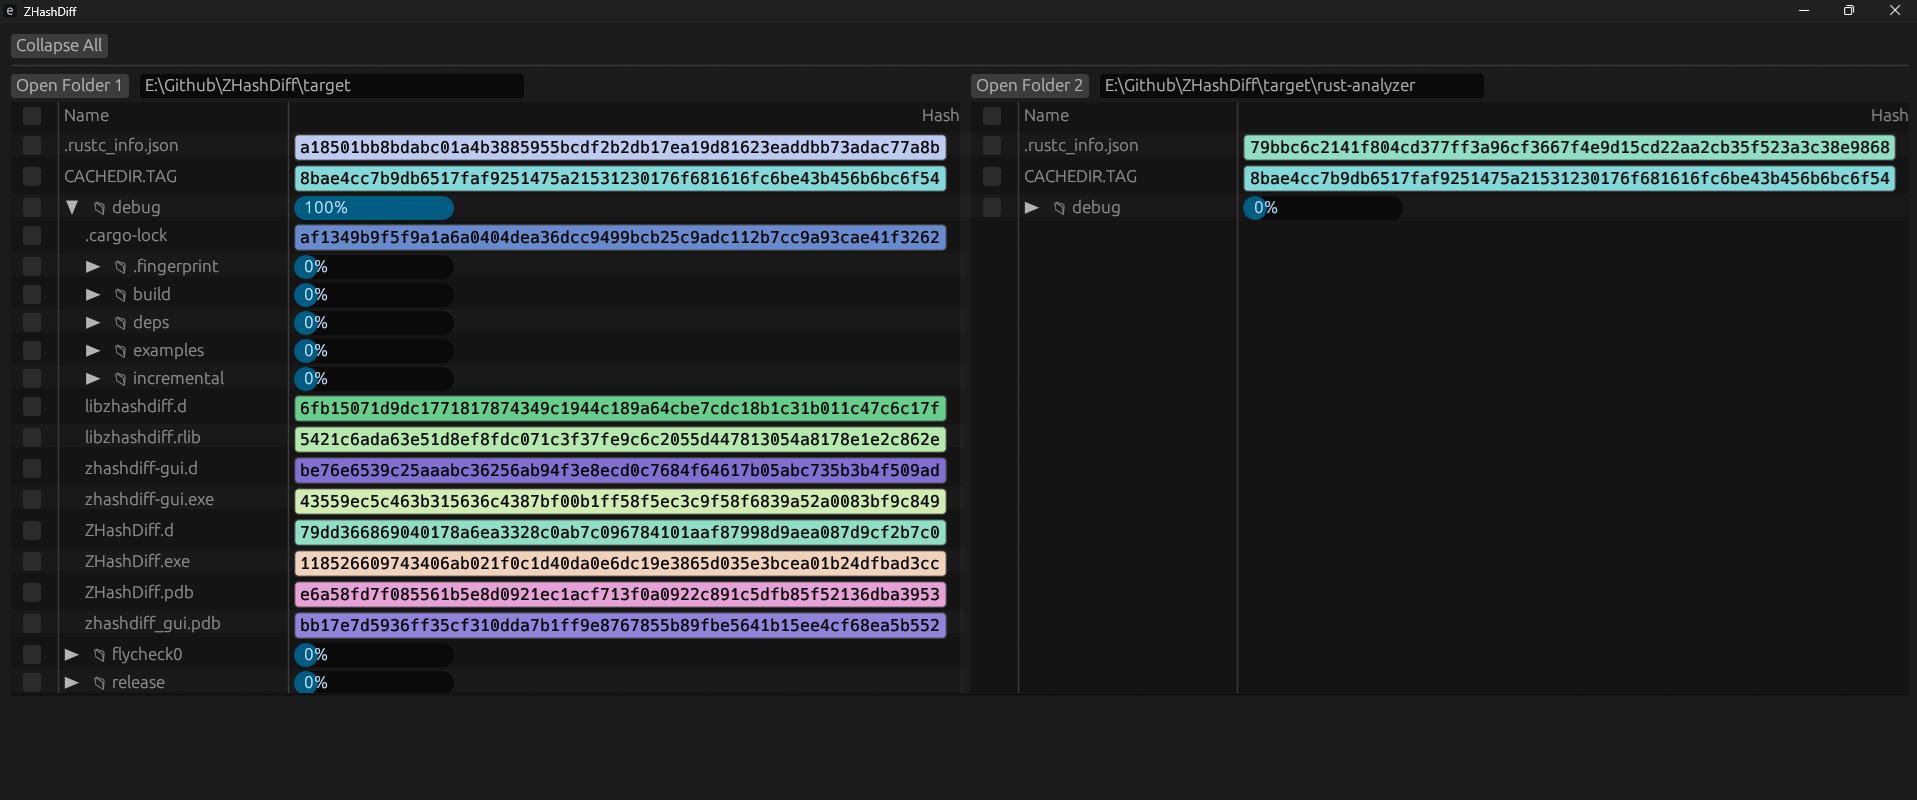
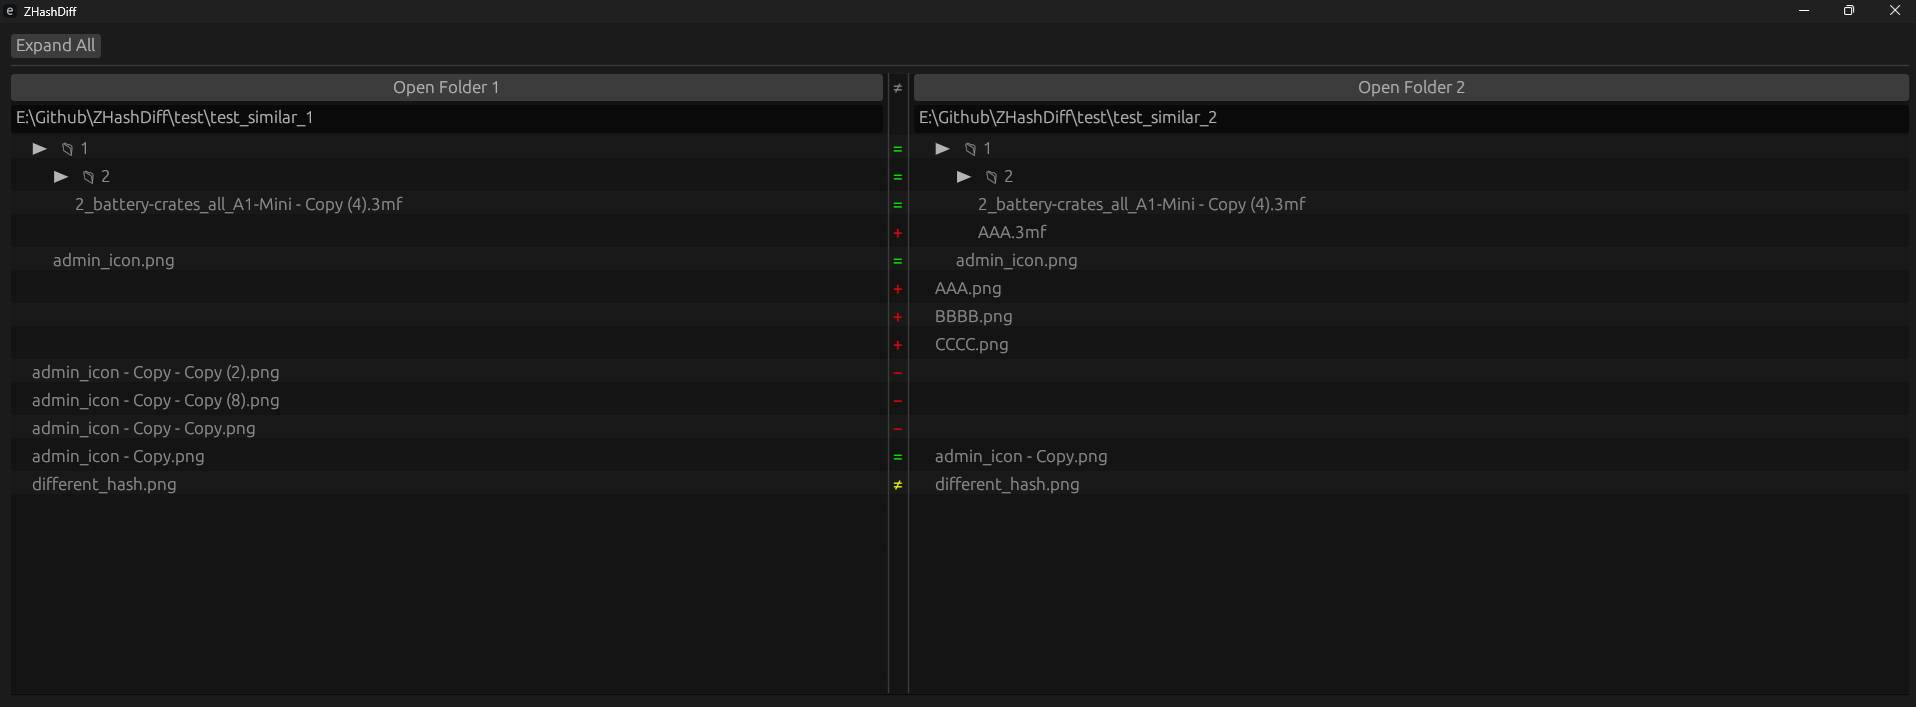
Functional code for path diff, updated showcase2.png

Changed region(s): [[0.0, 0.0, 1.0, 0.8713]]

diff --git a/src/gui/ui_egui/fs_tree.rs b/src/gui/ui_egui/fs_tree.rs
@@ -1,10 +1,13 @@
-use std::{collections::HashMap, path::PathBuf};
+use std::{
+    collections::{BTreeMap, HashMap},
+    path::{Path, PathBuf},
+};
 
 use eframe::egui::{self, RichText};
 use egui_extras::{Column, TableBuilder};
 use zhashdiff::{
     fs::{FileSystem, FsEntry},
-    hash::HashService,
+    hash::{HashService, hash_file},
 };
 
 use crate::ui_egui::common::{CheckboxSelectState, hash_to_color, ui_custom_checkbox};
@@ -116,7 +119,7 @@ pub fn draw_ui_two_folder_tree_with_diff(
     open_dir_window_2: &mut bool,
 ) -> egui::response::Response {
     let mut visible_rows = Vec::new();
-    build_expanded_rows_two_folder_diff(expanded, file_system_1, root_1, 0, &mut visible_rows);
+    build_two_folder_diff_rows(expanded, file_system_1, file_system_2, &mut visible_rows);
     let row_count = visible_rows.len();
 
     let available_height = ui.available_height();
@@ -222,9 +225,9 @@ pub enum DiffState {
 pub fn ui_custom_diff_state(ui: &mut egui::Ui, state: &DiffState) -> egui::response::Response {
     match state {
         DiffState::Same => ui.label(RichText::new("=").color(egui::Color32::GREEN)),
-        DiffState::Different => ui.label(RichText::new("≠").color(egui::Color32::RED)),
-        DiffState::OnlyInFirst => ui.label(RichText::new("←").color(egui::Color32::YELLOW)),
-        DiffState::OnlyInSecond => ui.label(RichText::new("→").color(egui::Color32::YELLOW)),
+        DiffState::Different => ui.label(RichText::new("≠").color(egui::Color32::YELLOW)),
+        DiffState::OnlyInFirst => ui.label(RichText::new("−").color(egui::Color32::RED)),
+        DiffState::OnlyInSecond => ui.label(RichText::new("+").color(egui::Color32::RED)),
     }
 }
 
@@ -262,30 +265,80 @@ fn build_expanded_rows(
     }
 }
 
-fn build_expanded_rows_two_folder_diff(
+fn build_two_folder_diff_rows(
     expanded: &mut HashMap<PathBuf, bool>,
-    file_system: &mut FileSystem,
-    current_path: &PathBuf,
-    depth: usize,
+    file_system_1: &mut FileSystem,
+    file_system_2: &mut FileSystem,
     out: &mut Vec<VisibleRowTwoFolderDiff>,
 ) {
-    let fs_path = file_system.get(current_path);
+    out.clear();
 
-    for entry in &fs_path.entries {
-        let (path, is_dir) = match entry {
-            FsEntry::Dir { path } => (path, true),
-            FsEntry::File { path } => (path, false),
+    let root1 = file_system_1.root.clone();
+    let root2 = file_system_2.root.clone();
+
+    let fs_path_1 = file_system_1.get(&root1);
+    let fs_path_2 = file_system_2.get(&root2);
+
+    let fs_path_1_flat = FileSystem::read_path_recursive_flatten(fs_path_1.root.path_buf());
+    let fs_path_2_flat = FileSystem::read_path_recursive_flatten(fs_path_2.root.path_buf());
+
+    // Use BTreeMap for stable ordering
+    let mut entries_map: BTreeMap<PathBuf, (Option<(&FsEntry, usize)>, Option<(&FsEntry, usize)>)> =
+        BTreeMap::new();
+
+    // LEFT
+    for (entry, depth) in &fs_path_1_flat.entries {
+        let rel = entry.path().strip_prefix(&root1).unwrap().to_path_buf();
+
+        entries_map.insert(rel, (Some((entry, *depth)), None));
+    }
+
+    // RIGHT
+    for (entry, depth) in &fs_path_2_flat.entries {
+        let rel = entry.path().strip_prefix(&root2).unwrap().to_path_buf();
+
+        entries_map
+            .entry(rel)
+            .and_modify(|e| e.1 = Some((entry, *depth)))
+            .or_insert((None, Some((entry, *depth))));
+    }
+
+    // BUILD ROWS
+    for (rel_path, (left, right)) in entries_map {
+        let depth = left
+            .map(|(_, d)| d)
+            .or_else(|| right.map(|(_, d)| d))
+            .unwrap_or(0);
+
+        let is_dir = left
+            .map(|(e, _)| matches!(e, FsEntry::Dir { .. }))
+            .or_else(|| right.map(|(e, _)| matches!(e, FsEntry::Dir { .. })))
+            .unwrap_or(false);
+
+        let diff_state = match (left, right) {
+            (Some((l, l_depth)), Some((r, r_depth))) => {
+                if matches!(l, FsEntry::Dir { .. }) {
+                    // TODO: Also check if contents are same
+                    DiffState::Same
+                } else if hash_file(&l.path().to_string_lossy()).unwrap()
+                    == hash_file(&r.path().to_string_lossy()).unwrap()
+                {
+                    DiffState::Same
+                } else {
+                    DiffState::Different
+                }
+            }
+            (Some(_), None) => DiffState::OnlyInFirst,
+            (None, Some(_)) => DiffState::OnlyInSecond,
+            (None, None) => continue,
         };
 
         out.push(VisibleRowTwoFolderDiff {
-            path: path.clone(),
+            path: rel_path,
             is_dir,
             depth,
-            diff_state: DiffState::Same,
+            diff_state,
         });
-        if is_dir && expanded.get(&path.clone()).copied().unwrap_or(false) {
-            build_expanded_rows_two_folder_diff(expanded, file_system, &path, depth + 1, out);
-        }
     }
 }
 
@@ -302,26 +355,33 @@ fn render_row_folder_tree_diff_column(
     row.col(|ui| {
         ui.horizontal(|ui| {
             ui.add_space((entry.depth as f32) * 16.0);
-            if is_dir {
-                let is_open = expanded.get(path).copied().unwrap_or(false);
-                let openness = if is_open { 1.0 } else { 0.0 };
-                let (_rect, response) =
-                    ui.allocate_exact_size(egui::vec2(12.0, row_height), egui::Sense::click());
-                egui::collapsing_header::paint_default_icon(ui, openness, &response);
+            match &entry.diff_state {
+                DiffState::Different | DiffState::Same | DiffState::OnlyInFirst => {
+                    if is_dir {
+                        let is_open = expanded.get(path).copied().unwrap_or(false);
+                        let openness = if is_open { 1.0 } else { 0.0 };
+                        let (_rect, response) = ui.allocate_exact_size(
+                            egui::vec2(12.0, row_height),
+                            egui::Sense::click(),
+                        );
+                        egui::collapsing_header::paint_default_icon(ui, openness, &response);
 
-                if response.clicked() {
-                    expanded.insert(path.clone(), !is_open);
-                }
+                        if response.clicked() {
+                            expanded.insert(path.clone(), !is_open);
+                        }
 
-                let label = format!(
-                    "📁 {}",
-                    path.file_name().unwrap_or_default().to_string_lossy()
-                );
-                if ui.label(label).interact(egui::Sense::click()).clicked() {
-                    expanded.insert(path.clone(), !is_open);
+                        let label = format!(
+                            "📁 {}",
+                            path.file_name().unwrap_or_default().to_string_lossy()
+                        );
+                        if ui.label(label).interact(egui::Sense::click()).clicked() {
+                            expanded.insert(path.clone(), !is_open);
+                        }
+                    } else {
+                        ui.label(path.file_name().unwrap_or_default().to_string_lossy());
+                    }
                 }
-            } else {
-                ui.label(path.file_name().unwrap_or_default().to_string_lossy());
+                DiffState::OnlyInSecond => {}
             }
         });
     });
@@ -337,26 +397,34 @@ fn render_row_folder_tree_diff_column(
     row.col(|ui| {
         ui.horizontal(|ui| {
             ui.add_space((entry.depth as f32) * 16.0);
-            if is_dir {
-                let is_open = expanded.get(path).copied().unwrap_or(false);
-                let openness = if is_open { 1.0 } else { 0.0 };
-                let (_rect, response) =
-                    ui.allocate_exact_size(egui::vec2(12.0, row_height), egui::Sense::click());
-                egui::collapsing_header::paint_default_icon(ui, openness, &response);
 
-                if response.clicked() {
-                    expanded.insert(path.clone(), !is_open);
-                }
+            match &entry.diff_state {
+                DiffState::Different | DiffState::Same | DiffState::OnlyInSecond => {
+                    if is_dir {
+                        let is_open = expanded.get(path).copied().unwrap_or(false);
+                        let openness = if is_open { 1.0 } else { 0.0 };
+                        let (_rect, response) = ui.allocate_exact_size(
+                            egui::vec2(12.0, row_height),
+                            egui::Sense::click(),
+                        );
+                        egui::collapsing_header::paint_default_icon(ui, openness, &response);
 
-                let label = format!(
-                    "📁 {}",
-                    path.file_name().unwrap_or_default().to_string_lossy()
-                );
-                if ui.label(label).interact(egui::Sense::click()).clicked() {
-                    expanded.insert(path.clone(), !is_open);
+                        if response.clicked() {
+                            expanded.insert(path.clone(), !is_open);
+                        }
+
+                        let label = format!(
+                            "📁 {}",
+                            path.file_name().unwrap_or_default().to_string_lossy()
+                        );
+                        if ui.label(label).interact(egui::Sense::click()).clicked() {
+                            expanded.insert(path.clone(), !is_open);
+                        }
+                    } else {
+                        ui.label(path.file_name().unwrap_or_default().to_string_lossy());
+                    }
                 }
-            } else {
-                ui.label(path.file_name().unwrap_or_default().to_string_lossy());
+                DiffState::OnlyInFirst => {}
             }
         });
     });
@@ -495,7 +563,7 @@ fn get_folder_selection_state(
 
     // Check all flattened children
     for entry in &flatten_entries.entries {
-        let p = match entry {
+        let p = match &entry.0 {
             FsEntry::File { path } => path,
             FsEntry::Dir { path } => path,
         };
@@ -544,7 +612,7 @@ fn recursive_selection(
     value: bool,
 ) {
     let fs_path = file_system.get(path);
-    selected.insert(fs_path.root.path().clone(), value);
+    selected.insert(fs_path.root.path_buf().clone(), value);
 
     for entry in &fs_path.entries {
         match entry {
@@ -559,10 +627,11 @@ fn recursive_selection(
 }
 
 pub fn recursive_expand(expanded: &mut HashMap<PathBuf, bool>, in_path: &PathBuf) {
+    // TODO: check if adding depth can be utilized here
     expanded.insert(in_path.clone(), true);
     let flattened_entries = FileSystem::read_path_recursive_flatten(in_path);
     for entry in flattened_entries.entries.iter() {
-        if let FsEntry::Dir { path } = entry {
+        if let FsEntry::Dir { path } = &entry.0 {
             expanded.insert(path.clone(), true);
         }
     }

diff --git a/src/fs.rs b/src/fs.rs
@@ -1,4 +1,8 @@
-use std::{collections::HashMap, path::PathBuf, sync::Arc};
+use std::{
+    collections::HashMap,
+    path::{Path, PathBuf},
+    sync::Arc,
+};
 
 use eframe::egui;
 use serde::{Deserialize, Serialize};
@@ -10,7 +14,13 @@ pub enum FsEntry {
 }
 
 impl FsEntry {
-    pub fn path(&self) -> &PathBuf {
+    pub fn path(&self) -> &Path {
+        match self {
+            FsEntry::File { path } => path.as_path(),
+            FsEntry::Dir { path } => path.as_path(),
+        }
+    }
+    pub fn path_buf(&self) -> &PathBuf {
         match self {
             FsEntry::File { path } => path,
             FsEntry::Dir { path } => path,
@@ -34,6 +44,24 @@ impl Default for FsPath {
             },
             entries: Vec::new(),
             has_files_deep: true,
+        }
+    }
+}
+
+#[derive(Debug, Serialize, Deserialize, Clone)]
+pub struct FsPathFlat {
+    pub root: FsEntry,
+    // Entry with depth from root
+    pub entries: Vec<(FsEntry, usize)>,
+}
+
+impl Default for FsPathFlat {
+    fn default() -> Self {
+        Self {
+            root: FsEntry::Dir {
+                path: PathBuf::new(),
+            },
+            entries: Vec::new(),
         }
     }
 }
@@ -77,33 +105,33 @@ impl FileSystem {
             has_files_deep: Self::has_files_recursive(path),
         }
     }
+    pub fn read_path_recursive_flatten(path: &PathBuf) -> FsPathFlat {
+        let root_entry = FsEntry::Dir { path: path.clone() };
 
-    pub fn read_path_recursive_flatten(path: &PathBuf) -> FsPath {
-        let mut current = Self::read_path(path);
+        let mut flat = FsPathFlat {
+            root: root_entry,
+            entries: Vec::new(),
+        };
 
-        if current.has_files_deep {
-            // Collect dirs first to avoid borrowing issues
-            let dirs: Vec<PathBuf> = current
-                .entries
-                .iter()
-                .filter_map(|entry| {
-                    if let FsEntry::Dir { path } = entry {
-                        Some(path.clone())
-                    } else {
-                        None
-                    }
-                })
-                .collect();
+        Self::read_path_recursive_flatten_inner(path, 0, &mut flat);
 
-            for dir_path in dirs {
-                let child = Self::read_path_recursive_flatten(&dir_path);
+        flat
+    }
 
-                // Append all child entries
-                current.entries.extend(child.entries);
+    fn read_path_recursive_flatten_inner(path: &PathBuf, depth: usize, flat: &mut FsPathFlat) {
+        let current = Self::read_path(path);
+
+        for entry in current.entries {
+            let entry_depth = depth + 1;
+
+            // Store entry with depth
+            flat.entries.push((entry.clone(), entry_depth));
+
+            // Recurse if directory
+            if let FsEntry::Dir { path } = &entry {
+                Self::read_path_recursive_flatten_inner(path, entry_depth, flat);
             }
         }
-
-        current
     }
 
     // TODO: can probably optimize to do this while reading the path

diff --git a/src/gui/ui_egui/panes.rs b/src/gui/ui_egui/panes.rs
@@ -10,13 +10,13 @@ use egui_extras::{Size, StripBuilder};
 use serde::{Deserialize, Serialize};
 use zhashdiff::{
     fs::{FileSystem, FsEntry, FsPath},
-    hash::{HashService, ResolveConflictsInput, execute_resolution, find_conflicts},
+    hash::{execute_resolution, find_conflicts, HashService, ResolveConflictsInput},
 };
 
 use crate::{
     logger::ui_log_window,
     ui_egui::{
-        common::{CheckboxSelectState, hash_to_color},
+        common::{hash_to_color, CheckboxSelectState},
         fs_tree::{
             draw_ui_folder_tree_with_checkbox, draw_ui_two_folder_tree_with_diff,
             folder_state_ui_custom_checkbox, recursive_expand,
@@ -332,7 +332,7 @@ impl DuplicateFilesPane {
                         FileSystem::read_path_recursive_flatten(&ctx.file_system.root.clone());
 
                     for path in all_paths.entries {
-                        if let FsEntry::File { path } = path {
+                        if let FsEntry::File { path } = path.0 {
                             ctx.hash_service.request(path);
                         }
                     }
